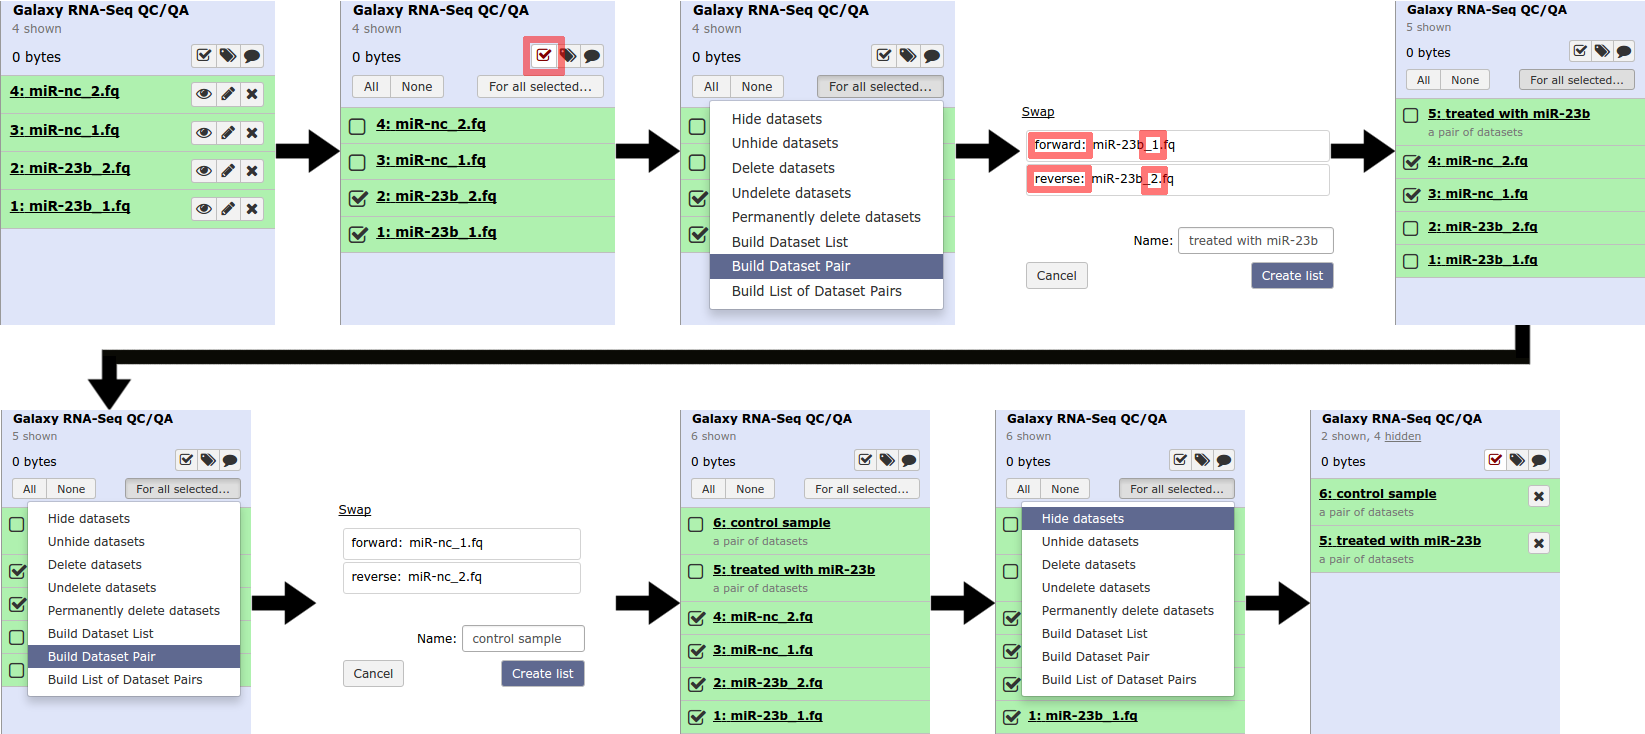
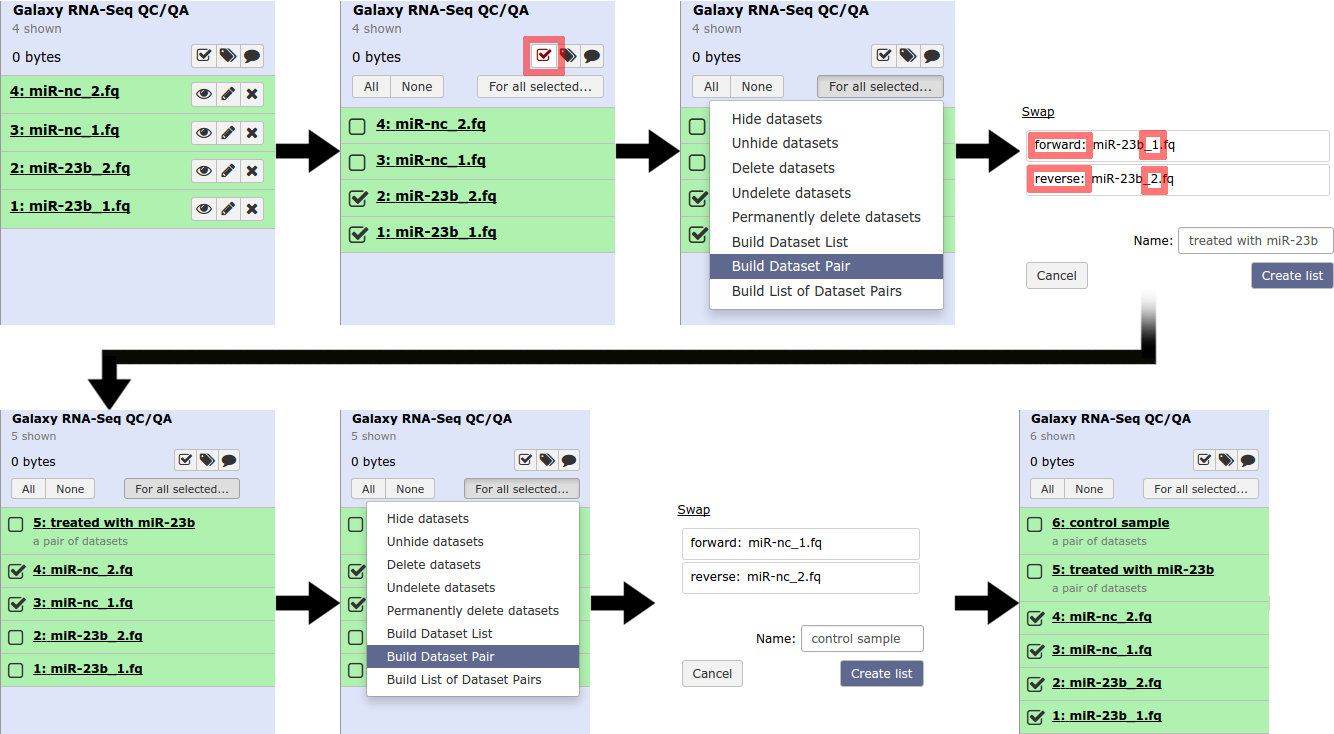
Change statements about using pairs

diff --git a/Galaxy_RNA-Seq_DGE/RNA-Seq_DGE_manual.md b/Galaxy_RNA-Seq_DGE/RNA-Seq_DGE_manual.md
@@ -26,7 +26,7 @@ Create a new history and import the following datasets from the shared data libr
 
 As you may expect from the file names, `_1` and `_2` indicate that these files are paired-end and belong together. To specify this in Galaxy, first select the checkbox at the top of the history (*Operations on multiple datasets*), and then select two history items that belong together and then press the button *For all selected...* to apply actions on multiple history items at once, and then select *Build Dataset Pair*. Galaxy does not inherently know which one is the forward and which one is the reverse, therefore make sure to check that `_1` is designated as the **forward** dataset and `_2` is the **reverse**. If Galaxy does not choose these files correctly be default, you can use the *Swap* option to switch these files around.
 
-Repeat this process for both dataset pairs. One of the samples has been treated with *miR-23b* and the other is a control. Make sure you use names for your pairs that make this clear. After you have done this, you will see that you end up with 6 datasets in total, of which 2 are dataset pairs. To avoid confusion you may find it easier to hide the individual history items, leaving just the two dataset pairs in the history.
+Repeat this process for both dataset pairs. One of the samples has been treated with *miR-23b* and the other is a control. Make sure you use names for your pairs that make this clear. After you have done this, you will see that you end up with 6 datasets in total, of which 2 are dataset pairs.
 
 ![](figures/qc_02.png)
 
@@ -46,12 +46,13 @@ More information about the FastQC output report can be found in this [manual](ht
 
 The Galaxy history items are all of the **fastq** format. This format is a general format that covers four
 specific subformats that differ in their quality encoding. Before we proceed with the next step it is
-important to understand the FASTQ encoding formats. They are described in detail on [wikipedia](http://en.wikipedia.org/wiki/FASTQ_format#Encoding)
+important to understand the FASTQ encoding formats. They are described in detail on [wikipedia](http://en.wikipedia.org/wiki/FASTQ_format#Encoding).
 
-In the FastQC report, scroll down to *Basic Statistics* and note what encoding is used in these files. This information is important because other tools may require a specific sub-datatype instead of *fastq*.
+In the FastQC report, scroll down to *Basic Statistics* and note what encoding is used in these files. This information is important later on in this practical, because other tools may require a specific sub-datatype instead of *fastq*. Therefore please write it down:
+..............................
 
-The more or less standard encoding is *fastqsanger*, which is the same encoding as Illumina 1.8 and
-Illumina 1.9, also referred to as Illumina 1.8+. To convert a fastq file into a different encoding (*fastqsanger* in our case), we use the tool `FASTQ Groomer - converts between various FASTQ quality formats`. In this tool, make sure the quality encoding you wrote down matches the one in the input field. Furthermore, make sure you run it for each of the four datasets; we can do this at once by selecting the *Multiple datasets* option in the input data field:
+The more or less standard encoding is *fastqsanger*, which is the same encoding as *Illumina 1.8* and
+*Illumina 1.9*, also referred to as *Illumina 1.8+*. To convert a fastq file into the standard type of encoding (*fastqsanger* in our case), we use the tool `FASTQ Groomer - converts between various FASTQ quality formats`. In this tool, make sure the quality encoding you wrote down matches the one in the input field. Furthermore, make sure you run it for each of the four datasets; we can do this at once by selecting the *Multiple datasets* option in the input data field.
 
 ![](figures/qc_05.png)
 
